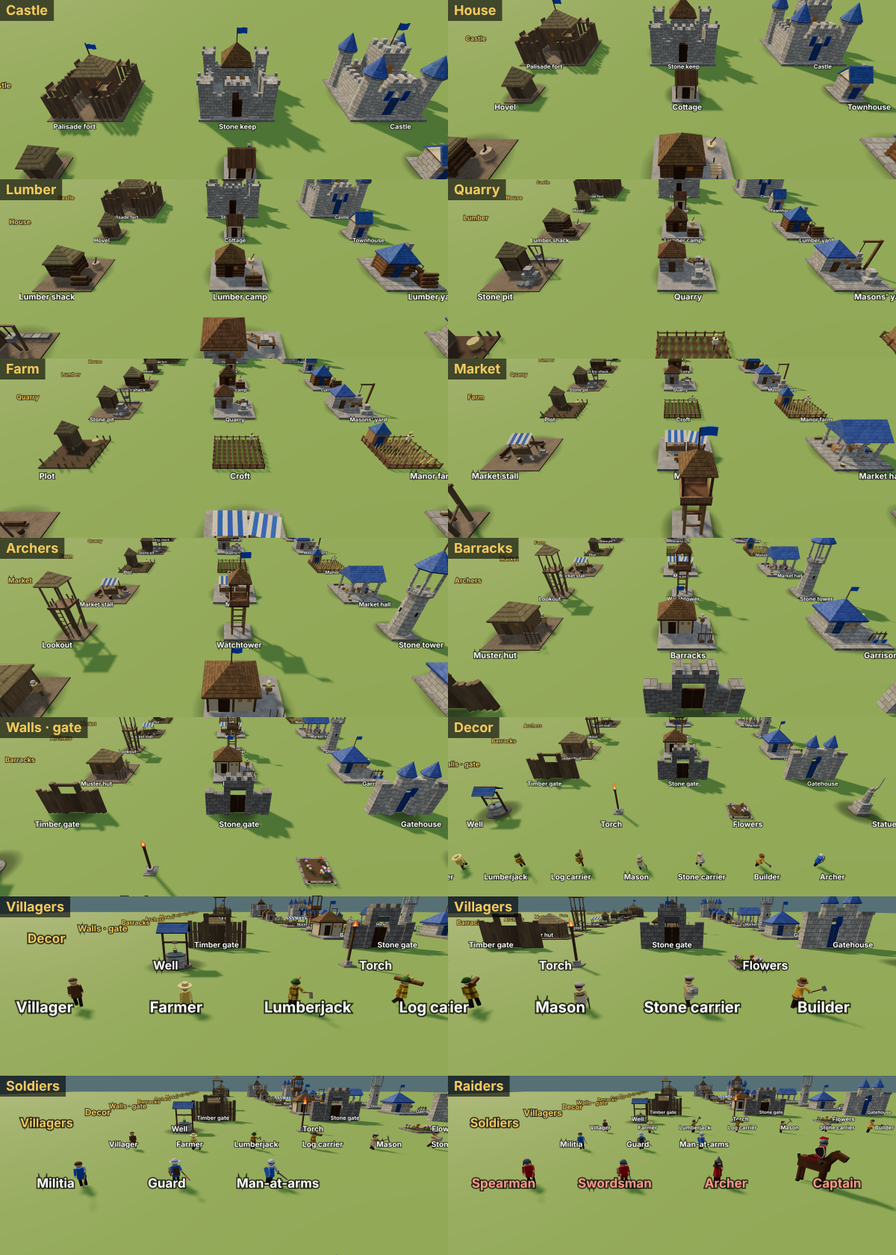
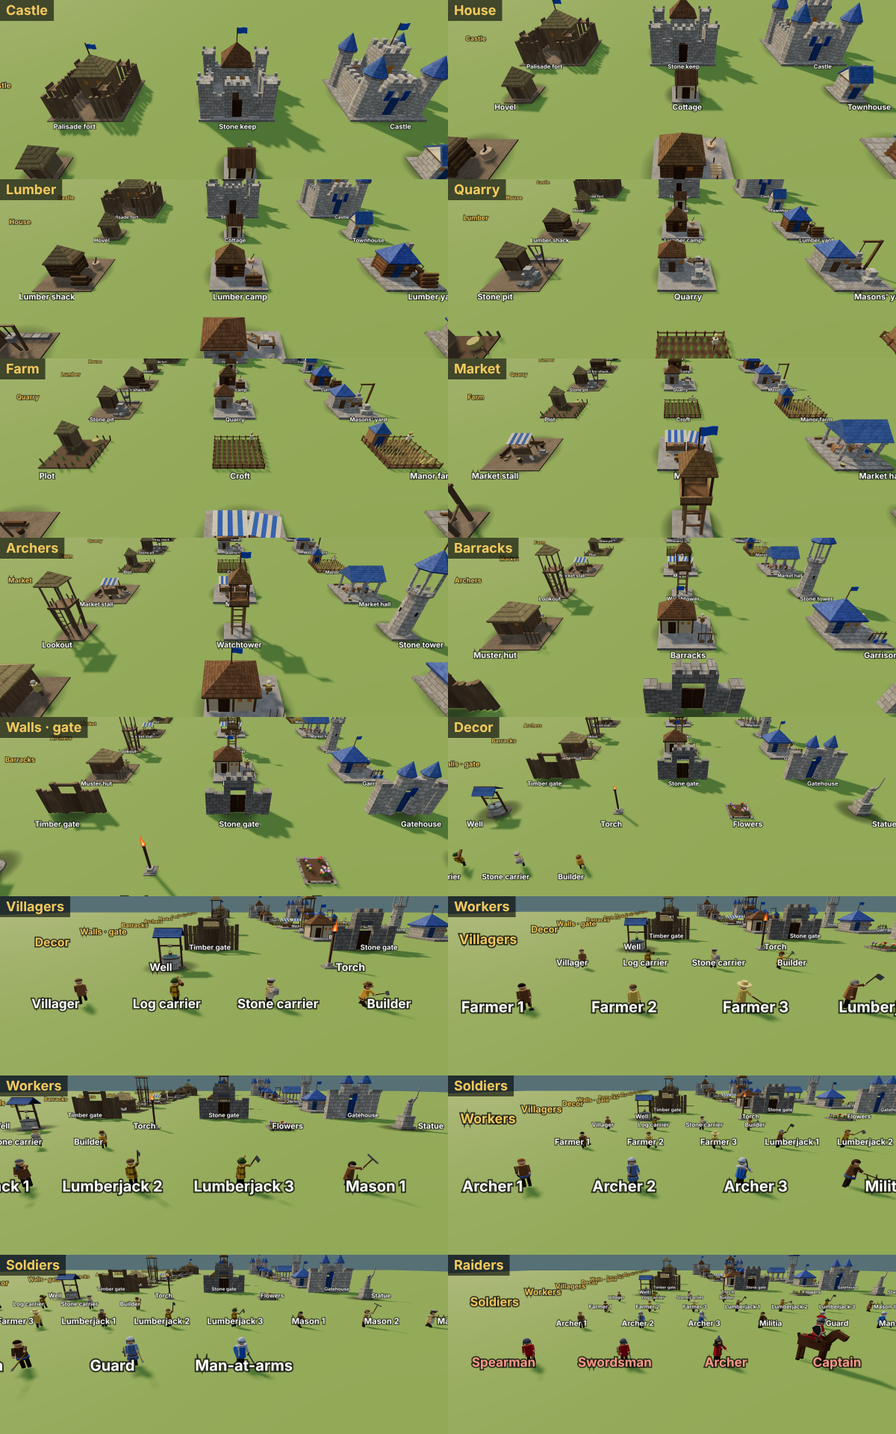
Defenders dress by tier (villager clothes, quilted gambeson and skullcap, mail and surcoat), only weapons differ; workers dress by their workplace's tier; gallery rows for each tier
Claude-Session: https://claude.ai/code/session_01AE8sRRsVdpH9ETfQvtppox

diff --git a/index.html b/index.html
@@ -2399,12 +2399,22 @@ const steelM = mat('#a3aab2'), soldierBandM = mat('#2d4f86'), ironM = mat('#5b60
   raiderHoodM = (() => { const m = mat('#3a2a26'); m.side = THREE.DoubleSide; return m; })();
 const captainShieldM = mat('#2a2b2e'), captainRimM = mat('#d9d6cc');
 const mailM = mat('#8d939a'), kiteM = mat('#3466b0');   // soldiers' mail; their blue shields and surcoat (plain: M.flag waves)
+// tier-2 defenders' gambeson: blue-grey padded cloth quilted in rows (canvas texture)
+function quiltMat(base, line) {
+  const c = document.createElement('canvas'); c.width = c.height = 32; const x = c.getContext('2d');
+  x.fillStyle = base; x.fillRect(0, 0, 32, 32); x.fillStyle = line;
+  for (let y = 3; y < 32; y += 8) x.fillRect(0, y, 32, 2);
+  x.globalAlpha = .45; for (let k = 6; k < 32; k += 10) x.fillRect(k, 0, 1, 32);
+  const t = new THREE.CanvasTexture(c); t.encoding = THREE.sRGBEncoding; t.wrapS = t.wrapT = THREE.RepeatWrapping; t.repeat.set(2, 2); t.magFilter = THREE.NearestFilter;
+  return new THREE.MeshStandardMaterial({ map: t, roughness: .95, flatShading: true });
+}
+const gambesonM = quiltMat('#62789a', '#465a7a');
 function makeHelm(kind) {
   const h = new THREE.Group(), add = o => { o.castShadow = true; h.add(o); return o; };
-  if (kind === 'kettle') {                   // soldier: polished kettle hat, a dome with a wide flat brim
-    const d = add(new THREE.Mesh(new THREE.SphereGeometry(.152, 14, 7, 0, Math.PI * 2, 0, Math.PI * .5), steelM)); d.position.y = 1.07; d.scale.y = 1.05;
-    add(cyl(.25, .25, .022, 16, steelM, 0, 1.075, 0));
-    add(cyl(.155, .155, .03, 14, bandM, 0, 1.095, 0));
+  if (kind === 'skullcap') {                 // tier 2 soldier: a plain steel skullcap riveted to a leather rim, ear flaps of the padded coif
+    const d = add(new THREE.Mesh(new THREE.SphereGeometry(.15, 14, 7, 0, Math.PI * 2, 0, Math.PI * .42), steelM)); d.position.y = 1.075; d.scale.y = .95;
+    add(cyl(.152, .152, .035, 14, leatherM, 0, 1.08, 0));
+    for (const sx of [-1, 1]) add(box(.03, .1, .09, gambesonM, sx * .135, 1.0, -.01));
   } else if (kind === 'soldier') {          // town archer: bright steel round helm, blue band, nose guard
     const d = add(new THREE.Mesh(new THREE.SphereGeometry(.153, 14, 7, 0, Math.PI * 2, 0, Math.PI * .55), steelM)); d.position.y = 1.045; d.scale.y = 1.12;
     add(cyl(.156, .156, .032, 14, soldierBandM, 0, 1.06, 0));
@@ -2461,13 +2471,16 @@ const OUTFIT = {
 };
 const strawM = mat('#d2b56a'), leatherM = mat('#5a4630'), featherM = mat('#b8452c');
 const apronM = (() => { const m = mat('#b9ae96'); m.side = THREE.DoubleSide; return m; })(), apronHemM = (() => { const m = mat('#ddd5c2'); m.side = THREE.DoubleSide; return m; })();
+// workers dress by their workplace's tier: 1 their own clothes (the tool says the job), 2 the work tunic and a cloth cap,
+// 3 the full outfit (hat, apron or belt); builders always wear theirs (v.outfitTier overrides, for the gallery)
 function dress(v, kind) {
-  const O = OUTFIT[kind], tun = O ? O.tunic : v.baseTunic;
+  const tier = v.outfitTier || (kind === 'hammer' || !v.job ? 3 : v.job.tier); v.dressT = tier;
+  const O0 = OUTFIT[kind], O = O0 && tier === 3 ? O0 : null, tun = O0 && tier >= 2 ? O0.tunic : v.baseTunic;
   v.torso.material = tun; v.arms.forEach(a => a.userData.sleeve.material = tun);
   if (v.hatG) v.body.remove(v.hatG); v.hatG = null;
   if (v.apron) { v.body.remove(v.apron); v.apron = null; }
   const h = new THREE.Group();
-  if (!O) { if (v.plainHat) { const c = new THREE.Mesh(new THREE.SphereGeometry(.15, 12, 5, 0, Math.PI * 2, 0, Math.PI * .5), hatM); c.scale.y = .72; c.position.y = 1.07; c.castShadow = true; h.add(c); } }
+  if (!O) { if (v.plainHat || (O0 && tier === 2)) { const c = new THREE.Mesh(new THREE.SphereGeometry(.15, 12, 5, 0, Math.PI * 2, 0, Math.PI * .5), hatM); c.scale.y = .72; c.position.y = 1.07; c.castShadow = true; h.add(c); } }
   else if (O.hat === 'straw') { h.add(cyl(.28, .28, .025, 12, strawM, 0, 1.13, 0)); h.add(cyl(.12, .14, .13, 10, strawM, 0, 1.2, 0)); }
   else if (O.hat === 'woolcap') {          // woodsman: round green wool cap, thick rolled brim, a feather tucked in the side
     const cr = new THREE.Mesh(new THREE.SphereGeometry(.15, 12, 6, 0, Math.PI * 2, 0, Math.PI * .5), O.hatM); cr.position.y = 1.07; cr.scale.y = 1.1; cr.castShadow = true; h.add(cr);
@@ -3072,7 +3085,7 @@ function updateVillagers(dt, now) {
       if (v.hungry) { updateHungry(v, dt); if (v.sleeping) continue; }
       else {
         const want = toolFor(v) || null;
-        if ((v.toolKind || null) !== want || v.changeT > 0) updateChange(v, dt, want);     // wrong clothes for the next task: change first
+        if ((v.toolKind || null) !== want || v.changeT > 0 || (want && want !== 'hammer' && v.job && v.dressT !== v.job.tier)) updateChange(v, dt, want);   // new tool, or the workplace's new tier     // wrong clothes for the next task: change first
         else {
           if (!(v.hideT > 0) && !canStand(v.x, v.z, 1)) exitDoor(v);
           if (v.build) updateBuilder(v, dt); else if (v.job) updateWorker(v, dt, now); else updateWander(v, dt);
@@ -3422,7 +3435,6 @@ function updateEnemies(dt) {
   }
 }
 // ---------- night watch: villagers walk to the castle and towers and shoot from the top ----------
-const guardTunic = mat('#3a62a0');
 const POSTS = {
   tower: [[.38, 3.19], [.31, 3.43], [.38, 4.7]].map(([x, y], i) => [[x, y * TOWER_K[i], 0], [-x, y * TOWER_K[i], 0]]),
   castle: [
@@ -3434,7 +3446,7 @@ const POSTS = {
 function postOffset(B, a) { const L = POSTS[B.type][B.tier - 1], [x, y, z] = L[a % L.length], [rx, rz] = faceRot(B.face || 0, x, z); return [rx, y, rz]; }
 function showDefender(B, a) {
   B.figs = B.figs || [];
-  if (!B.figs[a]) B.figs[a] = makePerson({ tunic: guardTunic, helm: 'soldier', tool: 'bow' });
+  if (!B.figs[a]) { B.figs[a] = makePerson({ tool: 'bow' }); armour(B.figs[a], B.tier); }
   const f = B.figs[a], o = postOffset(B, a), c = center(B);
   f.g.position.set(c.x + o[0], B.group.position.y + o[1], c.z + o[2]); f.g.rotation.y = Math.atan2(o[0] || .01, o[2] || .01); f.g.visible = true;
 }
@@ -3468,24 +3480,34 @@ function killVillager(v) {
   if (castleB()) respawns.push({ home: v.home, t: 60, homeless: !!v.homeless });
 }
 
+// ---------- the town's defenders: one look per tier for every defender (archers, barracks soldiers and the rest); only the weapon differs ----------
+// tier 1: the villager's own clothes and a blue belt; tier 2: a quilted blue-grey gambeson, a skullcap; tier 3: mail under the blue
+// surcoat, a steel helm, shoulder plates
+function armour(p, tier) {
+  if (p.armour) p.armour.forEach(o => o.parent && o.parent.remove(o));
+  p.armour = []; const put = o => { o.castShadow = true; p.body.add(o); p.armour.push(o); return o; };
+  const tun = tier === 3 ? mailM : tier === 2 ? gambesonM : p.baseTunic;
+  p.torso.material = tun; p.arms.forEach(a => a.userData.sleeve.material = tun);
+  if (p.hatG) p.hatG.visible = false; if (p.apron) p.apron.visible = false;
+  if (tier === 1) put(cyl(.197, .197, .05, 10, kiteM, 0, .47, 0));
+  if (tier === 2) { put(cyl(.205, .228, .13, 10, gambesonM, 0, .37, 0)); put(cyl(.197, .197, .045, 10, leatherM, 0, .5, 0)); put(makeHelm('skullcap')); }
+  if (tier === 3) {
+    put(cyl(.15, .214, .42, 8, kiteM, 0, .62, 0)); put(cyl(.17, .17, .05, 8, leatherM, 0, .55, 0)); put(makeHelm('soldier'));
+    for (const sx of [-1, 1]) { const pl = put(new THREE.Mesh(new THREE.SphereGeometry(.085, 8, 5, 0, Math.PI * 2, 0, Math.PI * .5), steelM)); pl.position.set(sx * .19, .86, 0); pl.scale.set(1, .75, 1.1); }
+  }
+  return p.armour;
+}
 // ---------- barracks soldiers: villagers who muster at a barracks at night, gear up by its tier and fight raiders hand to hand ----------
 const SOLDIER = { hp: [70, 100, 140], dmg: [7, 10, 14], rate: .9, names: ['Militia', 'Guard', 'Man-at-arms'] };
 const SQUAD = [[0, 0], [-.8, -.5], [.8, -.5]];      // where the three stand round their spot
 var respawns = [], fallen = [];                     // fallen soldiers come back as villagers after 60 s of daylight
-// tier 1 militia: blue tunic, padded cap, spear; tier 2 guard: leather jerkin, kettle hat, spear, round wooden shield;
-// tier 3 man-at-arms: mail under a blue surcoat, steel helm, sword, blue kite shield
+// the tier's armour (armour()); tier 1 militia: spear; tier 2 guard: spear and a round wooden shield; tier 3 man-at-arms: sword and a blue kite shield
 function soldierKit(v, tier) {
   if (v.kit) v.kit.forEach(o => o.parent && o.parent.remove(o));
   v.kit = []; v.kitTier = tier;
   const put = o => { o.castShadow = true; v.body.add(o); v.kit.push(o); return o; };
-  const tunic = tier === 3 ? mailM : guardTunic;
-  v.torso.material = tunic; v.arms.forEach(a => a.userData.sleeve.material = tunic);
-  if (v.hatG) v.hatG.visible = false; if (v.apron) v.apron.visible = false;
   if (v.carryLog) v.carryLog.visible = v.carryStone.visible = false;    // nobody marches out with a log
-  if (tier === 1) { const c = put(new THREE.Mesh(new THREE.SphereGeometry(.15, 12, 5, 0, Math.PI * 2, 0, Math.PI * .5), leatherM)); c.scale.y = .8; c.position.y = 1.06; }
-  else put(makeHelm(tier === 2 ? 'kettle' : 'soldier'));
-  if (tier === 2) put(cyl(.152, .212, .34, 8, leatherM, 0, .66, 0));
-  if (tier === 3) { put(cyl(.15, .214, .42, 8, kiteM, 0, .62, 0)); put(cyl(.17, .17, .05, 8, leatherM, 0, .55, 0)); }
+  v.kit.push(...armour(v, tier)); v.armour = null;
   if (tier > 1) { const sh = armShield(v, tier === 2 ? roundShield(.19, M.wood) : heaterShield(.3, .44, kiteM, steelM)); sh.castShadow = true; v.kit.push(sh); }
   if (v.pivot) v.pivot.parent.remove(v.pivot);
   v.toolKind = tier === 3 ? 'sword' : 'spear'; v.pivot = makeTool(v.toolKind); v.arms[1].add(v.pivot);
@@ -4171,15 +4193,18 @@ function buildGallery() {
   }));
   row('Decor', 2, zc => ['well', 'torch', 'flowers', 'statue'].forEach((t, i) => { add(makeModel(t, 1, true, 0, 0), 8 + i * 9, zc, true); galLabel(DEF[t].name, '#fff', 8 + i * 9, zc + 2.1); }));
   const people = (title, list) => (row(title, 1.2, zc => list.forEach((P, i) => {
-    const x = 6 + i * 3.3, p = P.raider ? makeRaider(P.raider) : P.guard ? makePerson({ tunic: guardTunic, helm: 'soldier', tool: 'bow' }) : makePerson({});
+    const x = 6 + i * 3.3, p = P.raider ? makeRaider(P.raider) : P.guard ? makePerson({ tool: 'bow' }) : makePerson({});
     if (P.kit) soldierKit(p, P.kit);
-    else if (!P.raider && !P.guard) { p.plainHat = !P.tool; addLoads(p); giveTool(p, P.tool || null); dress(p, P.tool || null); if (P.carry === 'log') p.carryLog.visible = true; if (P.carry === 'stone') p.carryStone.visible = true; }
+    else if (P.guard) armour(p, P.guard);
+    else if (!P.raider) { p.plainHat = !P.tool; p.outfitTier = P.tier || 3; addLoads(p); giveTool(p, P.tool || null); dress(p, P.tool || null); if (P.carry === 'log') p.carryLog.visible = true; if (P.carry === 'stone') p.carryStone.visible = true; }
     p.g.position.set(x, 0, zc); p.g.rotation.y = .5; gScene.add(p.g); Object.assign(p, P, { seed: i * .7 }); gPeople.push(p);
     galLabel(P.name, P.raider ? '#ff9a8a' : '#fff', x, zc + 1.2, false, .75);
   })), gRows[gRows.length - 1].n = list.length);     // how many people: tools/render takes two shots of a long row
-  people('Villagers', [{ name: 'Villager' }, { name: 'Farmer', tool: 'hoe', work: 1 }, { name: 'Lumberjack', tool: 'axe', work: 1 }, { name: 'Log carrier', tool: 'axe', carry: 'log' },
-    { name: 'Mason', tool: 'pick', work: 1 }, { name: 'Stone carrier', tool: 'pick', carry: 'stone' }, { name: 'Builder', tool: 'hammer', work: 1 }, { name: 'Archer', guard: 1 }]);
-  people('Soldiers', [{ name: 'Militia', kit: 1 }, { name: 'Guard', kit: 2 }, { name: 'Man-at-arms', kit: 3 }]);
+  people('Villagers', [{ name: 'Villager' }, { name: 'Log carrier', tool: 'axe', carry: 'log' }, { name: 'Stone carrier', tool: 'pick', carry: 'stone' }, { name: 'Builder', tool: 'hammer', work: 1 }]);
+  // workers by their workplace's tier: own clothes and the tool, the work tunic and a cap, the full outfit
+  people('Workers', [['Farmer', 'hoe'], ['Lumberjack', 'axe'], ['Mason', 'pick']].flatMap(([n, t]) => [1, 2, 3].map(k => ({ name: `${n} ${k}`, tool: t, work: 1, tier: k }))));
+  // defenders by tier: the same armour for every kind, only the weapon differs
+  people('Soldiers', [{ name: 'Archer 1', guard: 1 }, { name: 'Archer 2', guard: 2 }, { name: 'Archer 3', guard: 3 }, { name: 'Militia', kit: 1 }, { name: 'Guard', kit: 2 }, { name: 'Man-at-arms', kit: 3 }]);
   people('Raiders', [{ name: 'Spearman', raider: 'spear' }, { name: 'Swordsman', raider: 'sword' }, { name: 'Archer', raider: 'archer' }, { name: 'Captain', raider: 'captain' }]);
 }
 function openGallery() {

diff --git a/CLAUDE.md b/CLAUDE.md
@@ -72,7 +72,7 @@ The whole game is currently one self-contained file: `index.html` (~165 KB, thre
 - **Day/night**: 5 waves on Meadow and River isle (`WAVES_STD`; `WAVES`, `NIGHTS`, `DAYLEN`, `SPAWN_GAP` are set per map by `mapRules()`; Mountain pass has 2). Day 1 lasts 300 s, days 2–5 last 150 s (`DAYLEN`); the last `DUSK` 40 s fade slowly to night (light and dusk colours in `updateLight`), with a "Dusk · Night N soon" banner and log line as it starts. Nothing is earned at night: no payouts (the `econT` ring waits for dawn) and a load carried in after dark is lost (`deliver`). Night ends when all enemies are dead. Summary screen at the end.
 - **Waves** (`WAVES`): spearmen are the basic raider and come first. 1 = 7 spears + 2 archers; 2 = 9/4 swords/3 archers (hp ×1.15); 3 = 10/6/5 + captain (×1.3); 4 = 12/9/7 + captain (×1.45); 5 = 14/12/10 + 2 captains (×1.6). Targets (`pickTarget`): spearmen the nearest building; swordsmen the nearest archer tower (else nearest building); the mounted captain the castle; archers the nearest non-wall building, shooting over walls (`lob` adds 3.5 m reach when a wall blocks them).
 - **Economy**: payouts every `TICK=20` s (ring in top panel). Each villager eats 1 food every `MEAL=20` s of daylight; hungry villagers go home and sleep. A farmer who goes hungry leaves the field (`v.job = null` in `feedVillager`); `assignJobs` (also every 0.5 s by day) fills farms first and, while food is low (`foodLow`: under 3 meals a head, or `foodMade()`, the farms' (by farmers at work) and castle's food per payout, is less than the villagers eat per payout), moves a lumberjack or mason (not carrying, building or posted) to an empty farm job ("Food low · worker to the farm", at most every 20 s).
-- **Barracks soldiers**: at nightfall `assignPosts` fills posts in priority order (castle, then archer towers, then barracks; `rank`) with whoever is free; a barracks takes up to 3 and may go short. A villager carrying a log or stone delivers it on posting. The villager walks to its door, goes in, changes for ~1.4 s (`v.kitT`), comes out geared (`soldierKit`: T1 Militia blue tunic + padded cap + spear; T2 Guard leather jerkin + kettle hat + spear + round wooden shield; T3 Man-at-arms mail + blue surcoat + steel helm + sword + blue kite shield) and stays out (`v.soldier`, `updateSoldier`): holds the door or the rally flag (`SQUAD` offsets), engages raiders within 6 m of that spot, drops ones 9 m away or unreachable (4 s without progress). Melee raiders fight any soldier within 2.2 m (horse 2.6) before their building target (`nearestSoldier`, `hurtSoldier`). A fallen soldier falls over (`fallen`), leaves the town and is queued in `respawns` (so is anyone killed with a fallen tower or post, `killVillager`); after 60 s of daylight a villager returns to that home (or the castle); `syncResidents` counts pending respawns. At dawn soldiers walk back to their barracks, go in, change (`v.unkit`, `updateUnkit`, `stripKit`) and come out to their day's work (a lost barracks: they change where they stand); dawn while still changing sends them out unarmed. Spears (raider spearmen, Militia, Guard) are held level at the hip pointing forward; a strike lasts `SPEAR_T` (.5 s) in three beats: draw back, drive out 0.45 m with a small lunge (body steps .15 m and leans .12), recover (`spearPose`/`spearThrust`: arm + tool tilt + lean stay at −1.57 so the shaft stays level; the grip slides down the shaft). Swords (raider swordsman and captain, Man-at-arms) cut over `SWORD_T` (.5 s, `swordPose`): raise overhead with the wrist cocked back, chop down to low in front with a .1 m step-in, recover. Soldier strikes are set exactly after the pose easing (eased, they go soft). Shields are worn on the outside of the left forearm (`armShield`): `roundShield` (wood, iron boss and rim: Guard, raider swordsman) and `heaterShield` (flat top, pointed foot, rimmed: Man-at-arms blue `kiteM` with steel rim, raider captain black with a pale rim); raider spearmen carry none, raider archers wear a pointed iron cap over a dark coif. Blue cloth that must not wave uses `kiteM`, never `M.flag` (it has the flag-wave shader). Barracks T2/T3 fly a flag on the roof peak. Rally: barracks card → Rally, then tap the ground (`rallyFor`, `setRally`, blue flag); Recall clears it. A destroyed barracks keeps its soldiers: armed ones fall back to the castle door for the rest of the night (`v.post = { B: castle, a, fled: true }`: `updateSoldier` holds the castle door, ignores rallies; `fled` posts never touch `castle.manned` or block archer slots in `assignPosts`) and change back inside the castle at dawn; anyone still changing comes out unarmed and shelters.
+- **Barracks soldiers**: at nightfall `assignPosts` fills posts in priority order (castle, then archer towers, then barracks; `rank`) with whoever is free; a barracks takes up to 3 and may go short. A villager carrying a log or stone delivers it on posting. The villager walks to its door, goes in, changes for ~1.4 s (`v.kitT`), comes out geared (`soldierKit`: the tier's `armour()` plus T1 Militia spear; T2 Guard spear + round wooden shield; T3 Man-at-arms sword + blue kite shield) and stays out (`v.soldier`, `updateSoldier`): holds the door or the rally flag (`SQUAD` offsets), engages raiders within 6 m of that spot, drops ones 9 m away or unreachable (4 s without progress). Melee raiders fight any soldier within 2.2 m (horse 2.6) before their building target (`nearestSoldier`, `hurtSoldier`). A fallen soldier falls over (`fallen`), leaves the town and is queued in `respawns` (so is anyone killed with a fallen tower or post, `killVillager`); after 60 s of daylight a villager returns to that home (or the castle); `syncResidents` counts pending respawns. At dawn soldiers walk back to their barracks, go in, change (`v.unkit`, `updateUnkit`, `stripKit`) and come out to their day's work (a lost barracks: they change where they stand); dawn while still changing sends them out unarmed. Spears (raider spearmen, Militia, Guard) are held level at the hip pointing forward; a strike lasts `SPEAR_T` (.5 s) in three beats: draw back, drive out 0.45 m with a small lunge (body steps .15 m and leans .12), recover (`spearPose`/`spearThrust`: arm + tool tilt + lean stay at −1.57 so the shaft stays level; the grip slides down the shaft). Swords (raider swordsman and captain, Man-at-arms) cut over `SWORD_T` (.5 s, `swordPose`): raise overhead with the wrist cocked back, chop down to low in front with a .1 m step-in, recover. Soldier strikes are set exactly after the pose easing (eased, they go soft). Shields are worn on the outside of the left forearm (`armShield`): `roundShield` (wood, iron boss and rim: Guard, raider swordsman) and `heaterShield` (flat top, pointed foot, rimmed: Man-at-arms blue `kiteM` with steel rim, raider captain black with a pale rim); raider spearmen carry none, raider archers wear a pointed iron cap over a dark coif. Blue cloth that must not wave uses `kiteM`, never `M.flag` (it has the flag-wave shader). Barracks T2/T3 fly a flag on the roof peak. Rally: barracks card → Rally, then tap the ground (`rallyFor`, `setRally`, blue flag); Recall clears it. A destroyed barracks keeps its soldiers: armed ones fall back to the castle door for the rest of the night (`v.post = { B: castle, a, fled: true }`: `updateSoldier` holds the castle door, ignores rallies; `fled` posts never touch `castle.manned` or block archer slots in `assignPosts`) and change back inside the castle at dawn; anyone still changing comes out unarmed and shelters.
 - **Homeless**: a lost house (raided or demolished) never kills its people: they (and pending respawns) get `homeless = true` and the castle as home, so they shelter there and, when hungry, sleep there (`updateHungry` goes to `v.home`; one asleep in the house when it falls wakes in the castle), and work as usual. `syncResidents` moves the homeless into the next house built or upgraded before it adds new villagers. The houses chip (`#cHouse`, villagers / beds) turns red while anyone is homeless.
 - **Changing clothes**: only soldiers go indoors to change (barracks, above). Everyone else changes on the spot: whenever the clothes for the next task (`toolFor`: builder hammer, job tool, or plain) differ from what a villager wears (`v.toolKind`), `updateChange` stops them for `CHANGE_T` (1.1 s), they kneel (`kneel(p, c)`: body down, one knee forward, hands to the ground; the figure bends only at the ground, so a stoop tips it over like a plank) and the outfit and tool swap at the bottom; indoors it just happens. Jobs never go to anyone in soldier's kit (`assignJobs` skips `v.soldier`/`v.unkit`).
 - **Villagers**: live in houses/castle, take jobs, commute, walk to construction sites and build them before they work (`assignBuilders` every 0.5 s). At night they man the castle (priority) and towers; the rest hide in the castle.
@@ -121,7 +121,7 @@ Roof colours: tier 3 roofs use `M.roofBlue` (blue is the town's colour, red the 
 - **Water**: one plane at y 0 (`waterMat`, roughness .7 and no metalness: shinier water glared white toward the sun at low angles); its shader (`flowing-water` cache key) drifts two layers of noise with the current (down the Meadow's river along z, round the isle's ring about `KX/KZ`, `waterU`) for light streaks and darker patches, and lays broken foam where the bed is shallow (bed height from `hTex`, a byte texture of the heightmap refreshed in `syncTerrain` via `syncWaterTex`). Tiny splashes: `genShore` lists shoreline points (h −.12….02, not under bridges) and `updateSplashes` pops 3–5 white droplets (`splashM`, shared `chips` list) at a random one every .12 s. Spray: every .06 s three soft mist sprites (`sprayAt`, `spray: true` in `puffs`) rise from a shoreline point and drift with the current (`flowVel`, matching the shader), dimmer at night.
 - **Lights**: pool of 4 PointLights shared by night lamps; gradient sky dome.
 - **Sprites**: HP/progress bars (`fg.center.x=.5/f` trick); floating SVG icon pop-ups for income (`floatRes`; `ICON_IMG` holds gold, food, wood and stone, any other kind has no picture).
-- **People**: `makePerson` → arms on pivots (angle 0 = hanging, −1.57 = forward, −3 = overhead). Tools come from `makeTool(kind)` and are parented to the hand (`arms[1]`; bow on `arms[0]`); `giveTool(v,kind)`. Task poses are all one-handed (the single-segment arms can't both reach one handle; the free arm steadies): axe overhead chop, pick overhead strike, hoe bent low, hammer; log on right shoulder with the hand resting on it, stone held at chest in both hands. Axe and hoe heads sit on the local −z side so they lead the swing / face the soil. Bow is a gentle C (arc segments). Colour code: plain villagers wear browns (`tunics`), workers yellows (job outfits), soldiers blue (`guardTunic`), every raider the same red (`raiderRed`); the town's flags (`M.flag`) are blue. Everyone has short hair (`makeHair`, `hairs` palette); some plain villagers add a soft cloth cap. Headgear via `makeHelm`: villager archers on posts a bright steel round helm with a blue band and nose guard (`soldier`; `kettle` also exists), raider iron dome with nose and cheek guards, captain adds a red crest, raider archer a dark rounded hood. Outfits via `OUTFIT`/`dress()`: lumberjack yellow/brown checked shirt (`plaidMat` canvas texture) + green wool cap with feather, mason khaki + grey cloth bonnet + curved canvas apron with a leather waist band, farmer straw yellow + straw hat, builder amber smock + brown felt hat + tool belt. Renders of all of them: `design/characters/`.
+- **People**: `makePerson` → arms on pivots (angle 0 = hanging, −1.57 = forward, −3 = overhead). Tools come from `makeTool(kind)` and are parented to the hand (`arms[1]`; bow on `arms[0]`); `giveTool(v,kind)`. Task poses are all one-handed (the single-segment arms can't both reach one handle; the free arm steadies): axe overhead chop, pick overhead strike, hoe bent low, hammer; log on right shoulder with the hand resting on it, stone held at chest in both hands. Axe and hoe heads sit on the local −z side so they lead the swing / face the soil. Bow is a gentle C (arc segments). Colour code: plain villagers wear browns (`tunics`), workers yellows (job outfits), soldiers blue (`guardTunic`), every raider the same red (`raiderRed`); the town's flags (`M.flag`) are blue. Everyone has short hair (`makeHair`, `hairs` palette); some plain villagers add a soft cloth cap. **Defenders all dress by tier** (`armour(p, tier)`, for archers on posts by their tower's/castle's tier and for barracks soldiers; later defender kinds should use it too, only the weapon differs): T1 the villager's own clothes and a blue belt; T2 a quilted blue-grey gambeson (`gambesonM`, `quiltMat`) with a short skirt, leather belt and a steel `skullcap` (riveted to a leather rim, padded ear flaps; replaced the Guard's kettle hat); T3 mail (`mailM`) under the blue surcoat, the steel `soldier` helm (blue band, nose guard) and shoulder plates. **Workers dress by their workplace's tier** (`dress`: `v.dressT`, a change of tier triggers the on-the-spot change): T1 their own clothes and the tool, T2 the job's work tunic and a cloth cap, T3 the full outfit below; builders always wear theirs (`v.outfitTier` overrides, for the gallery). Headgear via `makeHelm`: raider iron dome with nose and cheek guards, captain adds a red crest, raider archer a dark rounded hood. Outfits via `OUTFIT`/`dress()`: lumberjack yellow/brown checked shirt (`plaidMat` canvas texture) + green wool cap with feather, mason khaki + grey cloth bonnet + curved canvas apron with a leather waist band, farmer straw yellow + straw hat, builder amber smock + brown felt hat + tool belt. Renders of all of them: `design/characters/`.
 - **Ambient**: bird flocks every 45–95 s (scale 0.55, half circle), waving flags.
 
 ## Audio
